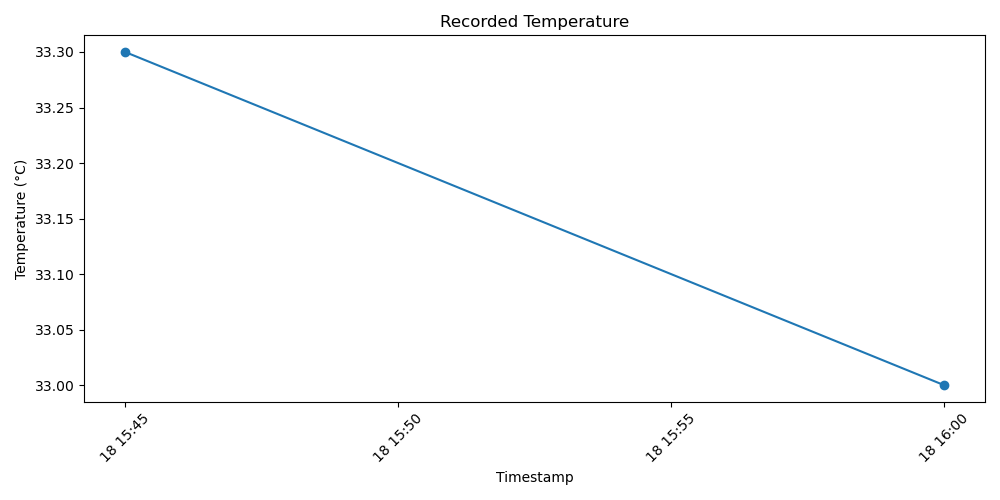
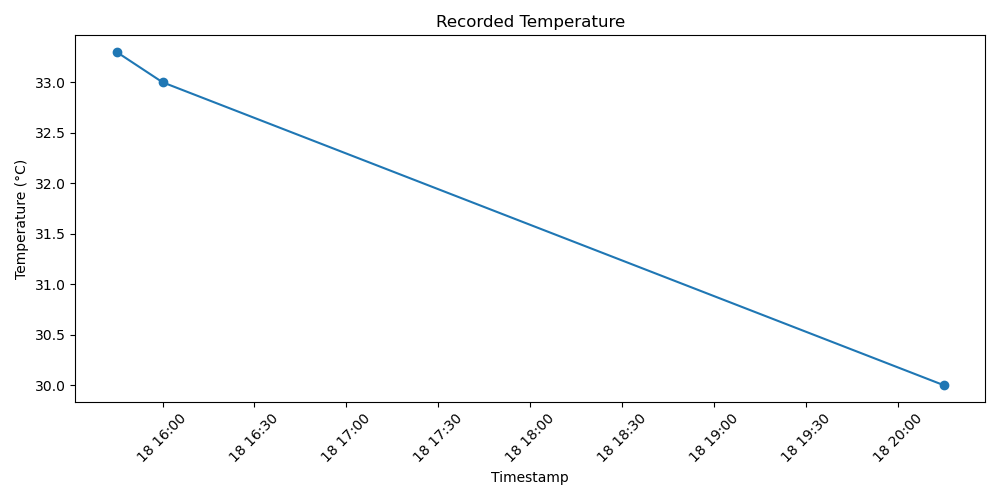
Move database credentials to environment file

diff --git a/main.py b/main.py
@@ -1,4 +1,5 @@
-
+from dotenv import load_dotenv
+load_dotenv()
 import requests
 import pandas as pd
 import mysql.connector
@@ -50,10 +51,10 @@ def extract_data():
 
 def get_connection():
     return mysql.connector.connect(
-        host="localhost",
-        user=os.getenv("MYSQL_HOST_USER", "root"),
+        host=os.getenv("MYSQL_HOST", "localhost"),
+        user=os.getenv("MYSQL_USER", "root"),
         password=os.environ["MYSQL_PASSWORD"],
-        database="weather_db"
+        database=os.getenv("MYSQL_DATABASE", "weather_db")
     )
 
 
